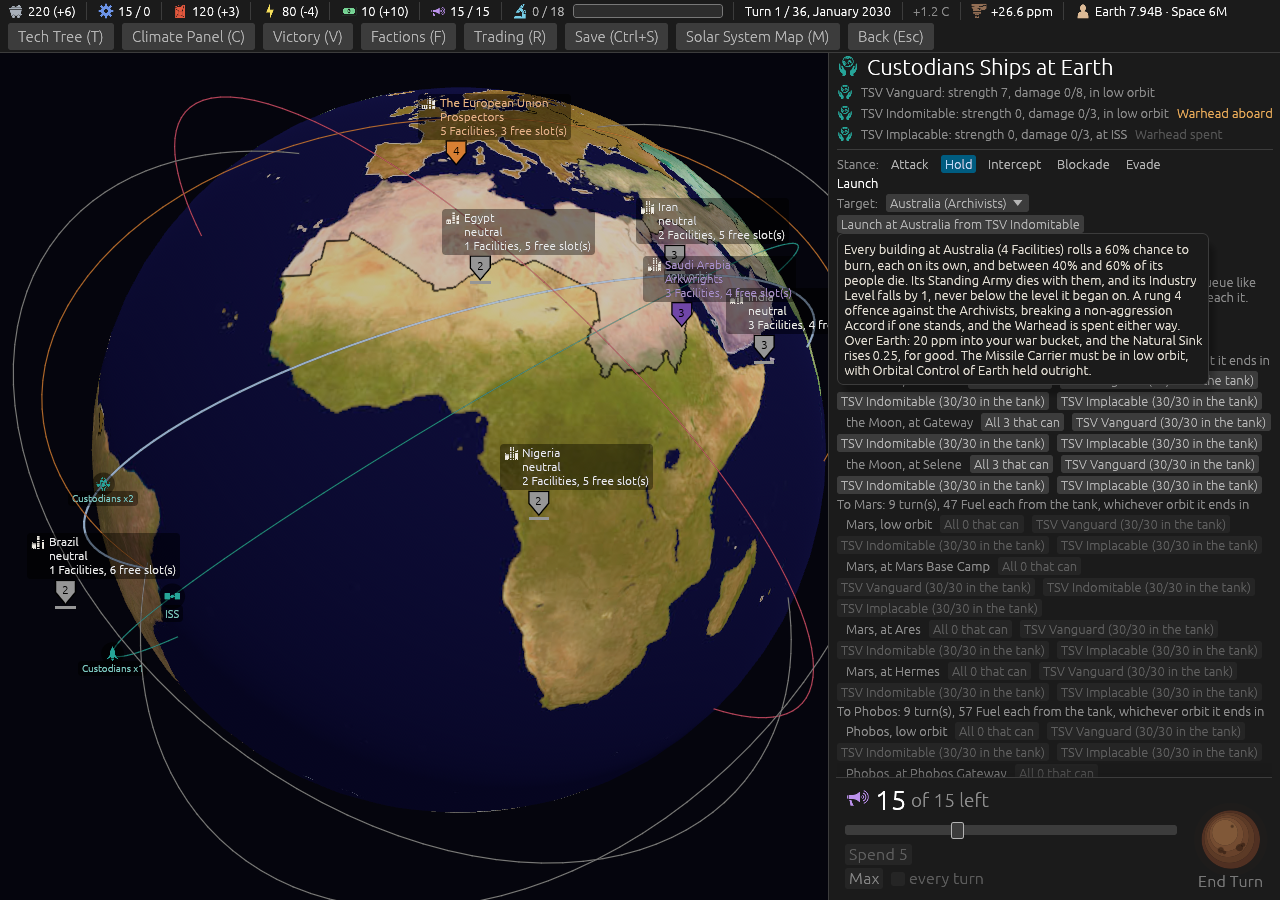
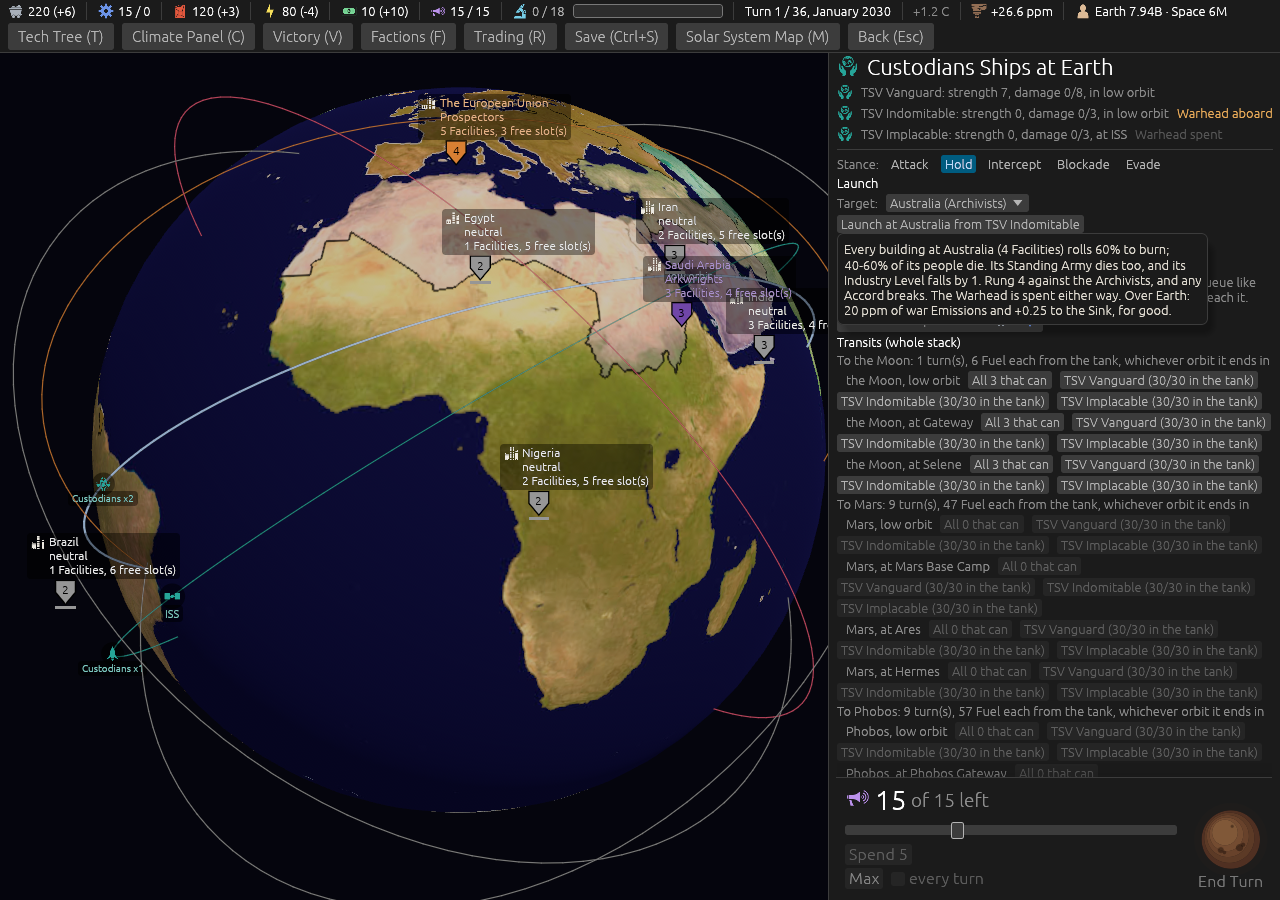
The Launch hover cut to five lines (ticket #343)
The designer: "before you close this ticket you gotta cut some the wording on
mouse over on lauching nukes". The first draft ran to eight rendered lines
against this project's six-line ceiling, and a first cut still measured seven.

What went was justification, never a figure: "each on its own", "never below
the level it began on", "breaking a NON-AGGRESSION Accord IF ONE STANDS", "so
a place is gutted and never erased".

The last sentence out was the orbit rule, which the Bombard's hover does
carry. It is the only line here that is not about what firing DOES, and this
hover is only ever read on a button that is already live, so the rule has
already been met; a hull that has not met it reads the engine's own refusal
on the greyed button instead, which says the same thing at the moment it
matters.

Five lines now. Every figure a player weighs before firing a nuke is still
there: 60% a building, 40-60% of the people, the Standing Army, the Industry
Level, rung 4, the Accord, the spent Warhead, and Earth's 20 ppm and quarter
point of Sink.

The picture was recaptured headlessly and looked at; the dev diary says what
it now shows and why the orbit rule is not in it.

Changed region(s): [[0.6562, 0.2489, 0.9688, 0.4356]]

diff --git a/src/ui.rs b/src/ui.rs
@@ -6941,29 +6941,35 @@ fn stack_panel(ui: &mut Ui, session: &Session, game: &Game, view: &mut ViewState
                     (n, if n == 1 { "Facility" } else { "Facilities" })
                 }
             };
-            let target_orbit = touching(chosen);
-            let holds = if target_orbit.is_low() {
-                format!("The Missile Carrier must be in low orbit, with Orbital Control of {} held outright.", game.tables.body(body).name)
-            } else {
-                format!("The Missile Carrier must be {}, with no rival warship and no rival working Battery in that orbit.", orbit_phrase(game, body, target_orbit))
-            };
             // What a strike does at this kind of place, in the words rule R4 is written in.
             let and_then = match chosen {
-                Place::Colony(_) => "The Core Module and the Archive are spared, so a place is gutted and never erased.".to_string(),
-                Place::State(_) => format!("Its Standing Army dies with them, and its Industry Level falls by {}, never below the level it began on.", n.industry_lost),
+                Place::Colony(_) => "The Core Module and the Archive are spared.".to_string(),
+                Place::State(_) => format!("Its Standing Army dies too, and its Industry Level falls by {}.", n.industry_lost),
             };
             // Ticket #279's rule, which this inherits: the war bucket and the Sink are Earth's
             // alone, so a strike off Earth poisons nothing and the hover must not say it does.
             let air = if body == BodyId::Earth {
-                format!(" Over Earth: {:.0} ppm into your war bucket, and the Natural Sink rises {:.2}, for good.", n.war_ppm, n.sink_rise)
+                format!(" Over Earth: {:.0} ppm of war Emissions and +{:.2} to the Sink, for good.", n.war_ppm, n.sink_rise)
             } else {
                 String::new()
             };
             // One hover for every hull: nothing in it turns on which hull fires, and the rows at
-            // the head of this card already say where each one is sitting. `rule_tip` holds the
-            // whole thing under the pointer, so it is kept near the ceiling the tooltip rule sets.
+            // the head of this card already say where each one is sitting.
+            //
+            // CUT TO THE SIX-LINE CEILING at the designer's word -- "you gotta cut some the wording
+            // on mouse over on lauching nukes" -- where the first draft ran to eight and the first
+            // cut still measured seven. What went was justification, never a figure: "each on its
+            // own", "never below the level it began on", "breaking a NON-AGGRESSION Accord IF ONE
+            // STANDS", "so a place is gutted and never erased".
+            //
+            // The last sentence to go was the ORBIT RULE ("must be in low orbit, with Orbital
+            // Control held outright"), which the Bombard's hover does carry. It is the one line
+            // here that is not about what firing DOES: this hover is only ever read on a button
+            // that is already live, so the rule has already been met, and a hull that has not met
+            // it reads the engine's own refusal on the greyed button instead -- which says the same
+            // thing, at the moment it matters. Five lines now, where the ceiling is six.
             let hover = format!(
-                "Every building at {} ({buildings} {what}) rolls a {:.0}% chance to burn, each on its own, and between {:.0}% and {:.0}% of its people die. {and_then} A rung {} offence against the {holder}, breaking a non-aggression Accord if one stands, and the Warhead is spent either way.{air} {holds}",
+                "Every building at {} ({buildings} {what}) rolls {:.0}% to burn; {:.0}-{:.0}% of its people die. {and_then} Rung {} against the {holder}, and any Accord breaks. The Warhead is spent either way.{air}",
                 game.place_name(chosen),
                 n.destruction_chance * 100.0,
                 n.people_min * 100.0,

diff --git a/docs/dev-diary/2026-09-24-version-0.09.1/ticket-343-nukes/README.md b/docs/dev-diary/2026-09-24-version-0.09.1/ticket-343-nukes/README.md
@@ -66,7 +66,7 @@ window:1280x900`, and every one looked at before this was written.
 | picture | what it shows |
 |---|---|
 | [`launch-and-rearm-card.png`](launch-and-rearm-card.png) | The Ship stack card over Earth. Three rows: the battleship *TSV Vanguard*, then *TSV Indomitable: strength 0, damage 0/3, in low orbit* with **Warhead aboard** in amber, then *TSV Implacable ... at ISS* with **Warhead spent** in weak grey. Under the stance row a **Launch** block: *Target: Australia (Archivists)* in a drop-down, one live button and one greyed. Then a **Rearm** block explaining that a Warhead joins the Shipyard's queue like any other build, and `Rearm TSV Implacable 40 🛒 8 ⚙`. |
-| [`launch-hover.png`](launch-hover.png) | The Launch button's hover, eight lines and unclipped: the 60% per building, the 40-60% of the people, the Region's Army and Industry Level, the rung-4 Offence and the Accord it breaks, Earth's 20 ppm and quarter-point of Sink, and the orbit rule. Everything a player needs before firing a nuke, and nothing else. |
+| [`launch-hover.png`](launch-hover.png) | The Launch button's hover, **five lines**, under the six-line ceiling: the 60% per building, the 40-60% of the people, the Region's Army and Industry Level, the rung-4 Offence and the Accord it breaks, and Earth's 20 ppm and quarter-point of Sink. The first draft ran to eight lines and a first cut to seven; the designer sent *"you gotta cut some the wording on mouse over on lauching nukes"*, and what went was justification, never a figure. The last sentence out was the orbit rule, which is the only line here not about what firing **does**: this hover is read on a button already live, so the rule has been met, and a hull that has not met it reads the engine's refusal on the greyed button instead. |
 | [`launch-refused-no-warhead.png`](launch-refused-no-warhead.png) | The greyed second Launch button with the engine's own refusal reaching the player verbatim: *this Missile Carrier has fired its Warhead; Rearm it at a Shipyard of yours*. |
 | [`rearm-hover.png`](rearm-hover.png) | The Rearm hover, in the shape a Module build button's hover has, which is what makes a Rearm read as a build: *40 🛒, 8 ⚙, about 2 turns here*, then what it buys and which yard's queue it joins. |
 | [`roster-missile-carriers.png`](roster-missile-carriers.png) | Your roster, two carrier rows wearing the new glyph between a battleship and a frigate wearing the warship glyph, each row saying **Warhead aboard** or **Warhead spent**. |
